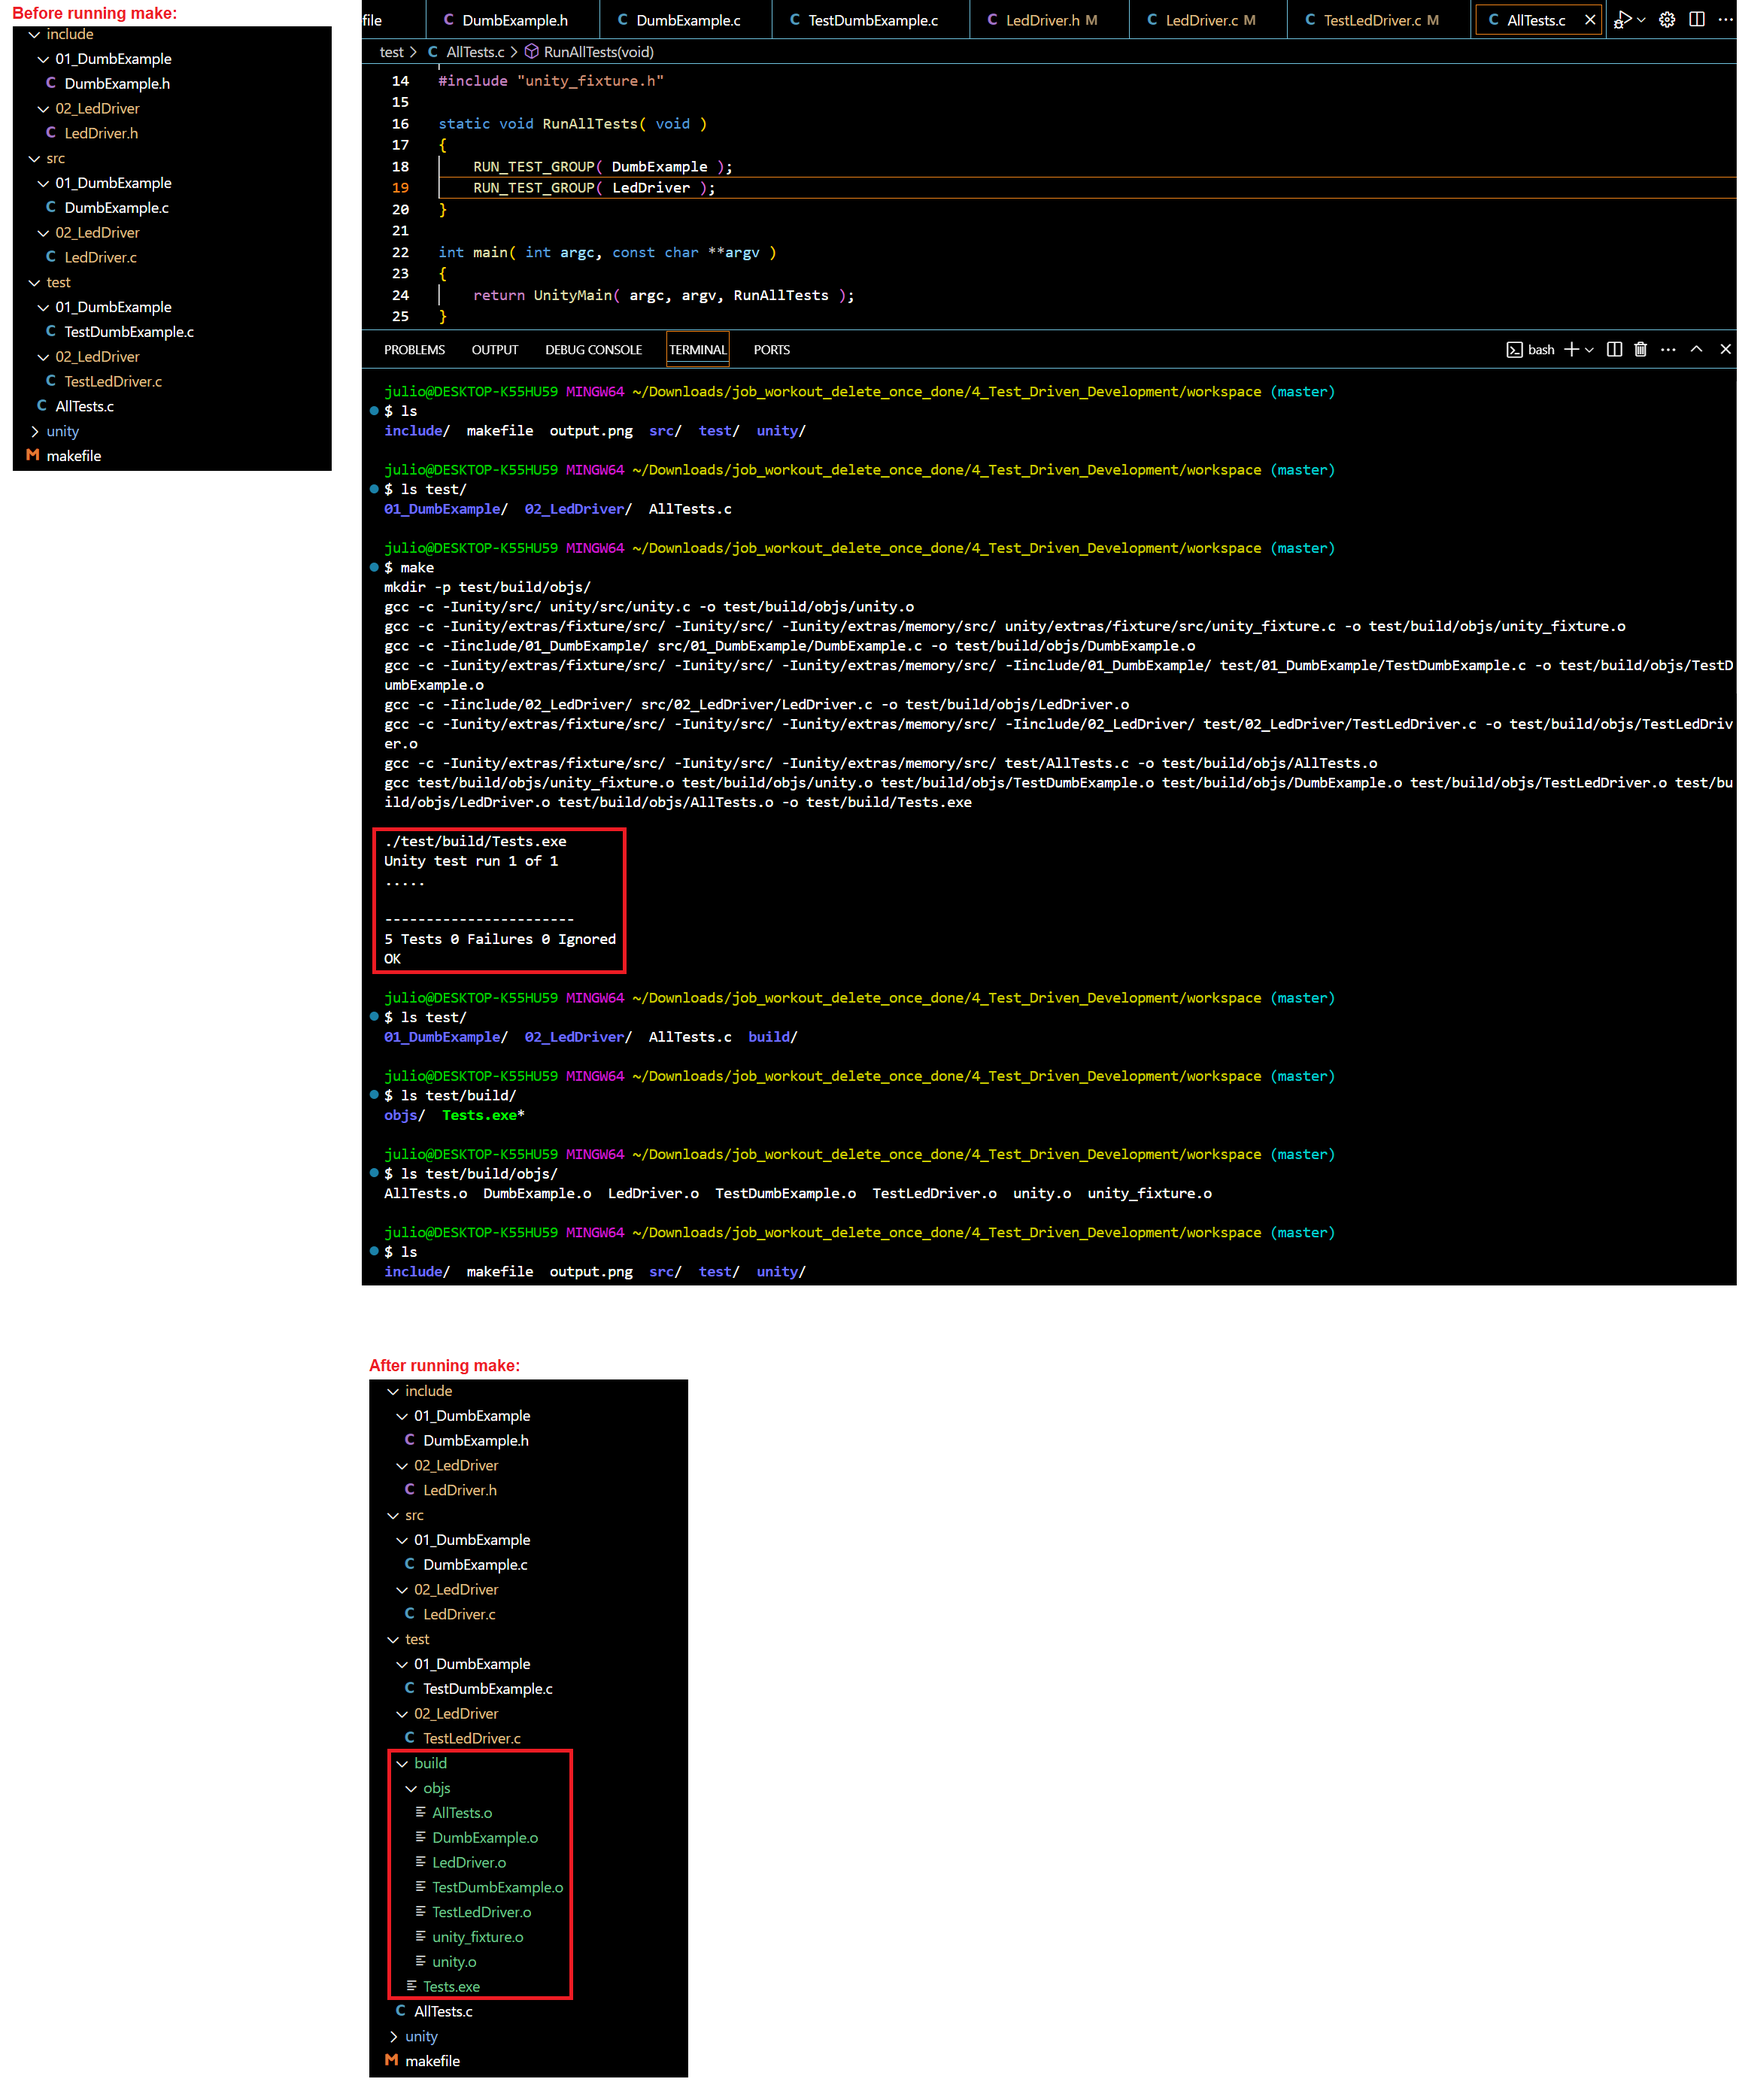
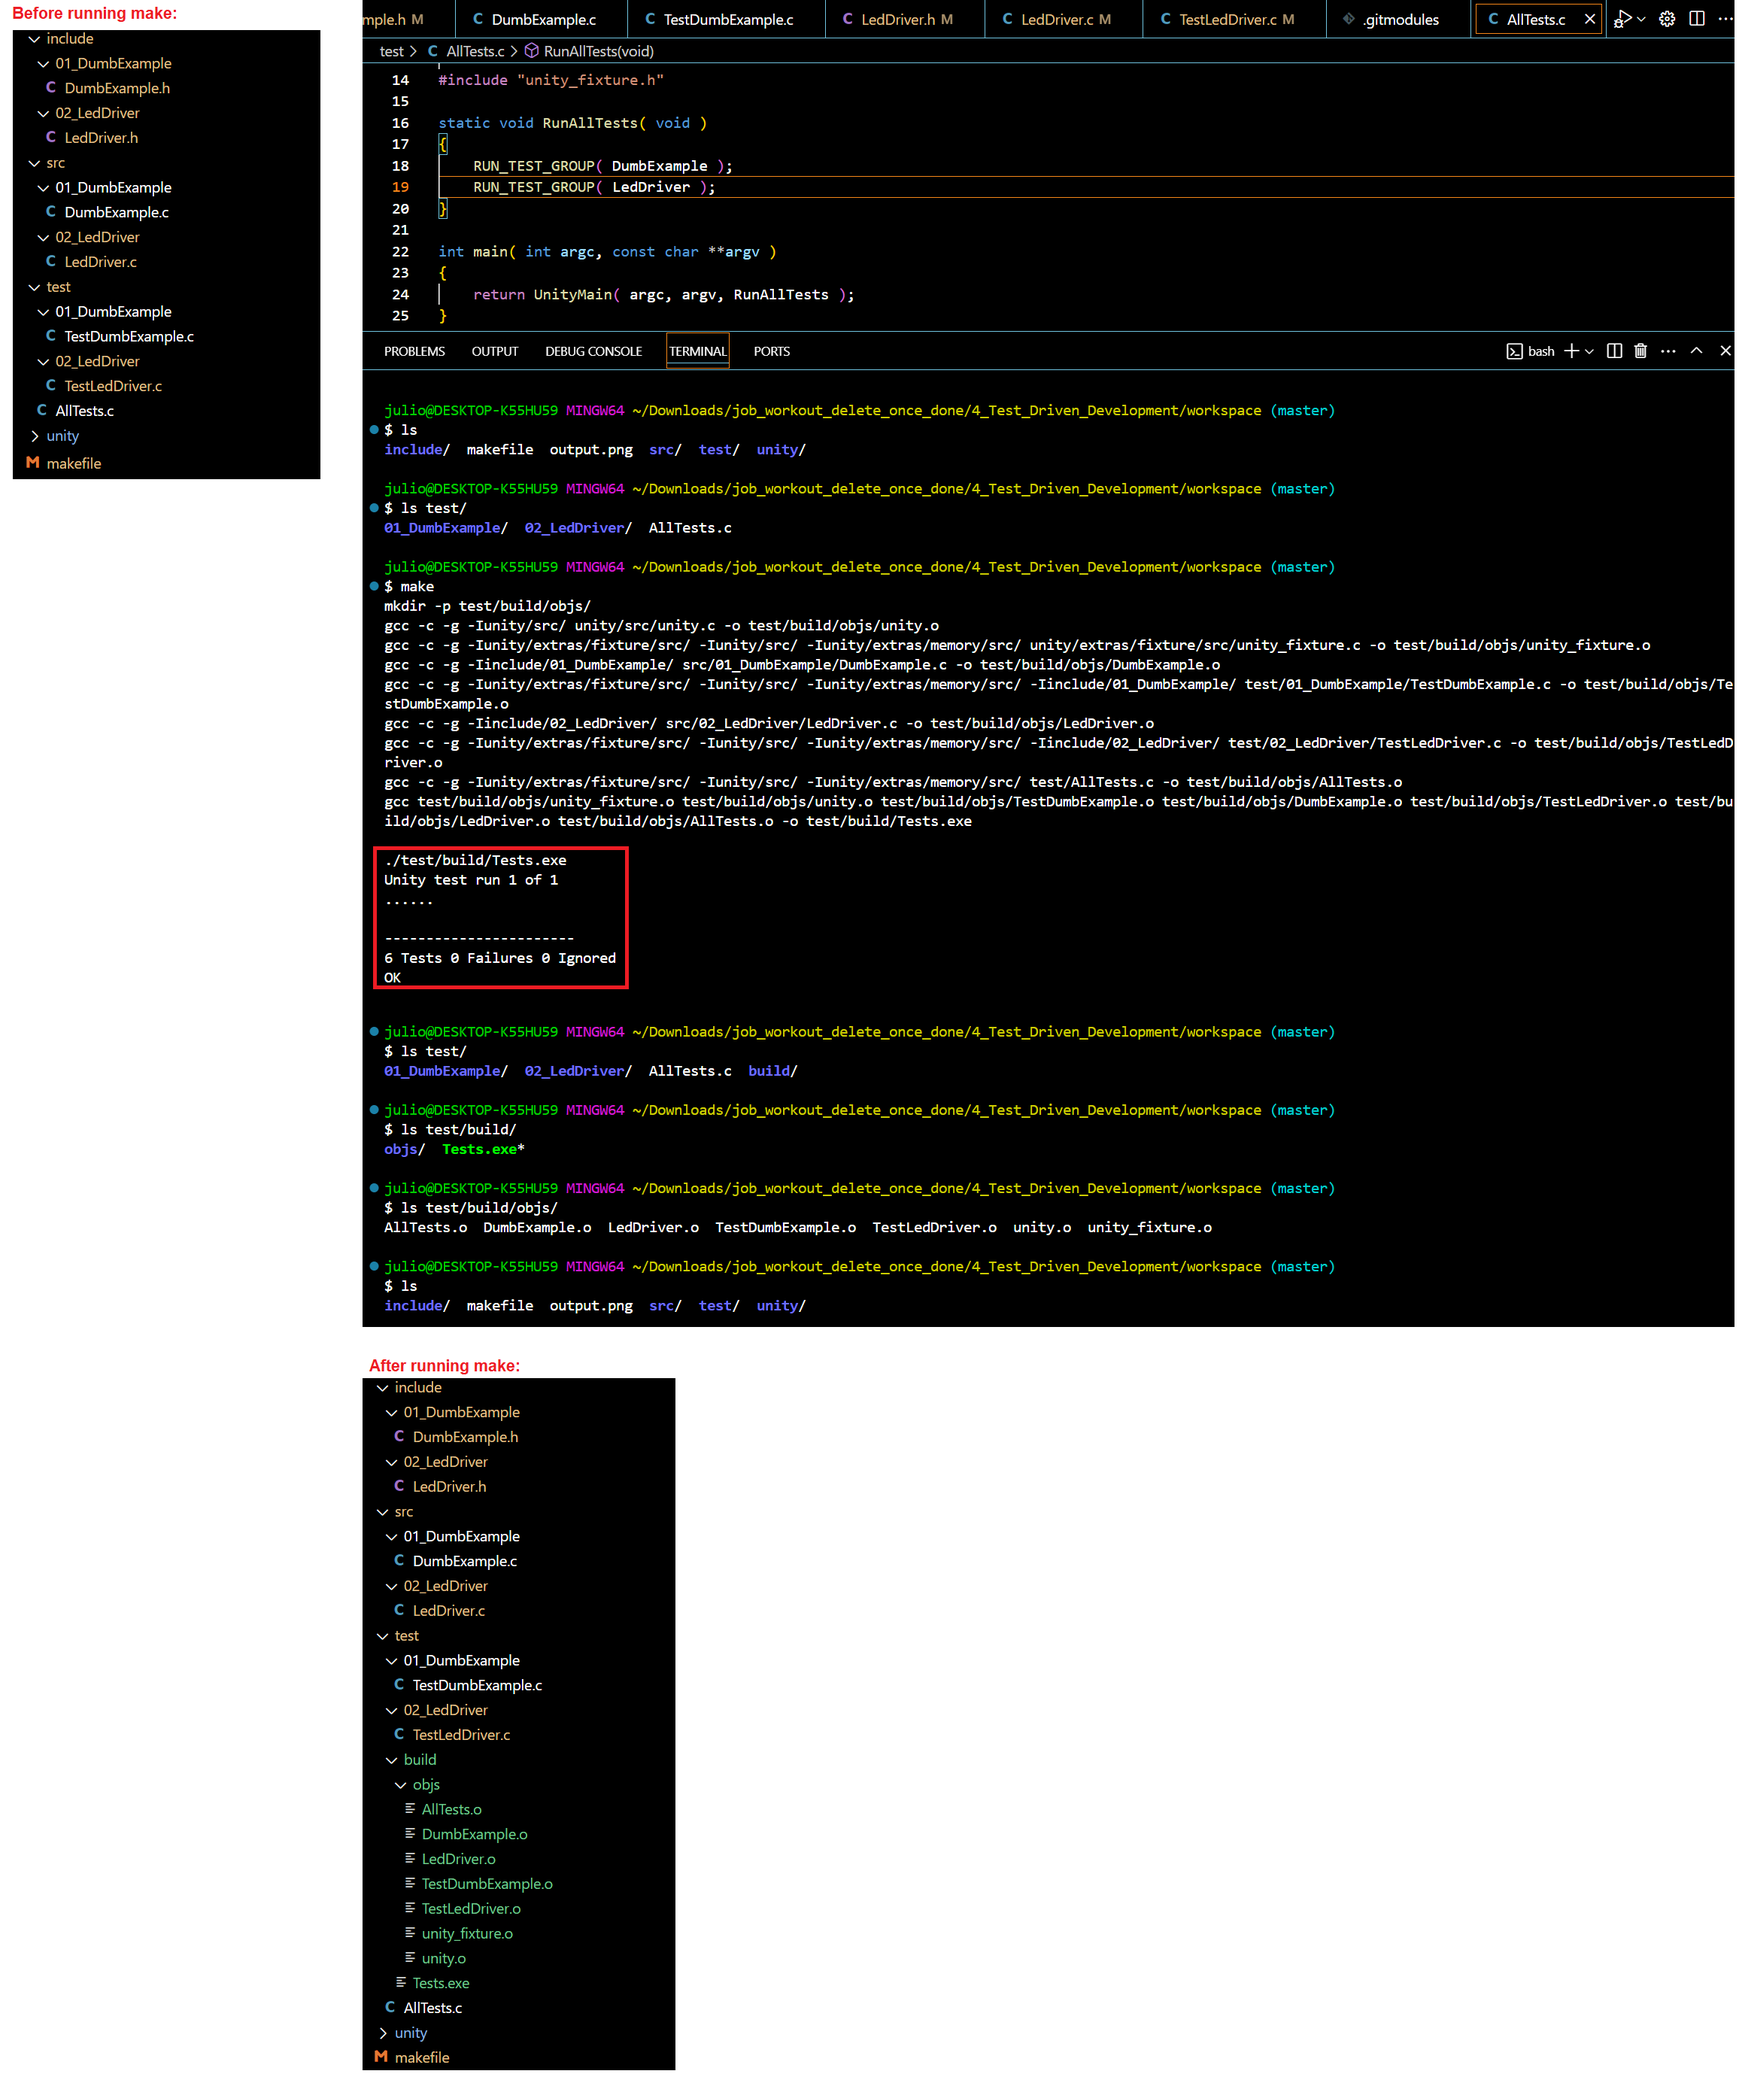
Add LedDriver TurnOnMultipleLeds test for forced LedDriver_TurnOn()

Changed region(s): [[0.1557, 0.0, 1.0, 0.9967], [0.0, 0.0, 0.1869, 0.2492]]

diff --git a/test/02_LedDriver/TestLedDriver.c b/test/02_LedDriver/TestLedDriver.c
@@ -33,7 +33,10 @@ TEST_GROUP( LedDriver );
 TEST_SETUP( LedDriver )
 {
    /* this will be called at the beginning of
-      every TEST() */
+      every TEST().
+      LedDriver_Create() will assign the address of virtualLeds (used here in the tests)
+      as the address of ledsAddress (which is used in the LedDriver) and will initialize
+      all of the LEDs to 0 (off) */
    LedDriver_Create( &virtualLeds );
 }
 
@@ -67,9 +70,8 @@ TEST( LedDriver, LedsOffAfterCreate )
 /* TEST 2 */
 TEST( LedDriver, TurnOnLedOne )
 {
-   /* turn the first LED on.
-      The LEDs are numbered 01 through 16, so bit 0 is LED 01 */
-   LedDriver_TurnOn( 1 << 0 );
+   /* turn the first LED on */
+   LedDriver_TurnOn( 1 );
 
    /* check LED 01 is on */
    TEST_ASSERT_EQUAL_HEX16( 1, virtualLeds );
@@ -78,16 +80,28 @@ TEST( LedDriver, TurnOnLedOne )
 /* TEST 3 */
 TEST( LedDriver, TurnOffLedOne )
 {
-   /* turn the first LED on.
-      The LEDs are numbered 01 through 16, so bit 0 is LED 01 */
-   LedDriver_TurnOn( 1 << 0 );
+   /* turn the first LED on */
+   LedDriver_TurnOn( 1 );
 
    /* turn the first LED off.
       The LEDs are numbered 01 through 16, so bit 0 is LED 01 */
-   LedDriver_TurnOff( 1 << 0 );
+   LedDriver_TurnOff( 1 );
 
    /* check LED 01 is off */
    TEST_ASSERT_EQUAL_HEX16( 0, virtualLeds );
+}
+
+/* TEST 4 */
+TEST( LedDriver, TurnOnMultipleLeds )
+{
+   /* turn on both LEDs 9 and 8 */
+   LedDriver_TurnOn( 8 );
+   LedDriver_TurnOn( 9 );
+
+   /* check both leds 9 and 8 are on.
+      The LEDs are numbered 01 through 16, so bit 8 is LED 09
+      and bit 7 is LED 08, which equals 0x180 */
+   TEST_ASSERT_EQUAL_HEX16( 0x180, virtualLeds );
 }
 
 TEST_GROUP_RUNNER( LedDriver )
@@ -100,4 +114,7 @@ TEST_GROUP_RUNNER( LedDriver )
 
    /* TEST 3 */
    RUN_TEST_CASE( LedDriver, TurnOffLedOne );
+
+   /* TEST 4 */
+   RUN_TEST_CASE( LedDriver, TurnOnMultipleLeds );
 }

diff --git a/src/02_LedDriver/LedDriver.c b/src/02_LedDriver/LedDriver.c
@@ -23,11 +23,10 @@ void LedDriver_Create( uint16_t *address )
 
 void LedDriver_TurnOn( uint16_t ledNumber )
 {
-    /* do the simplest thing to get the TurnOnLedOne test to pass...
-       hard-coding it (we're doing test driven, the TESTS are right!,
-       even though production code is not right. Don't worry, production code
-       won't be hard-coded and incomplete for long) */
-    *ledsAddress = 1;
+    /* turn on the specified LED number.
+       The offset (-1) is needed because the LEDs are numbered 01 through 16,
+       so LED 01 is bit 0, and LED 16 is bit 15 */
+    *ledsAddress |= 1 << ( ledNumber - 1 );
 }
 
 void LedDriver_TurnOff( uint16_t ledNumber )

diff --git a/include/02_LedDriver/LedDriver.h b/include/02_LedDriver/LedDriver.h
@@ -7,8 +7,13 @@
  * @date    2025-02-27
  */
 
-#include <stdint.h>
+#ifndef LEDDRIVER_H
+#define LEDDRIVER_H
 
-void LedDriver_Create( uint16_t *virtualLeds );
-void LedDriver_TurnOn( uint16_t ledNumber );
-void LedDriver_TurnOff( uint16_t ledNumber );
+    #include <stdint.h>
+
+    void LedDriver_Create( uint16_t *virtualLeds );
+    void LedDriver_TurnOn( uint16_t ledNumber );
+    void LedDriver_TurnOff( uint16_t ledNumber );
+
+#endif

diff --git a/include/01_DumbExample/DumbExample.h b/include/01_DumbExample/DumbExample.h
@@ -8,6 +8,11 @@
  * @date    2025-02-21
  */
 
-#include <stdint.h>
+#ifndef DUMBEXAMPLE_H
+#define DUMBEXAMPLE_H
 
-int8_t AverageThreeBytes( int8_t a, int8_t b, int8_t c );
+    #include <stdint.h>
+
+    int8_t AverageThreeBytes( int8_t a, int8_t b, int8_t c );
+
+#endif
